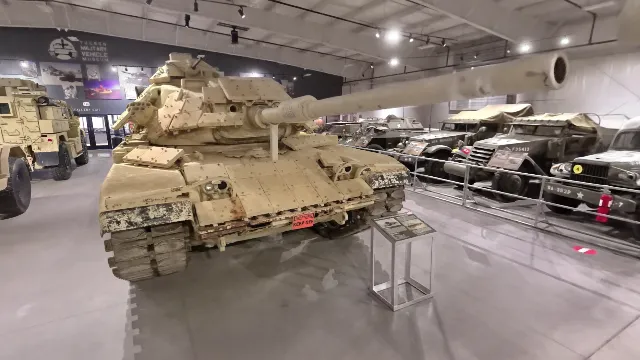
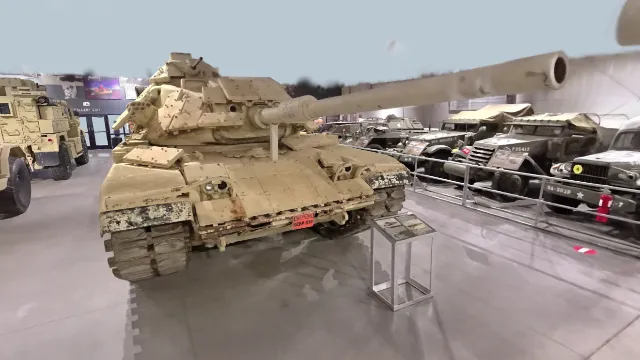
Crop the roof and outside noise; right-drag pans
- tools/crop-scan.mjs keeps only the hangar interior: an oriented box
  around the measured walls, up to y = 2.9 (roof, hanging lights and
  outside noise removed); the sky shell is dropped
- prepare-model.sh crops first; model now 252 MB, 253 files
- Thumbnails re-rendered from the saved poses on the new model
- Mouse: left-drag orbits, right-drag pans, middle-drag looks

diff --git a/src/devmode.ts b/src/devmode.ts
@@ -73,7 +73,7 @@ export function initDevMode(ctx: DevContext): void {
       </div>
       <p class="dev-hud__keys">
         Fly: <kbd>W</kbd><kbd>A</kbd><kbd>S</kbd><kbd>D</kbd> · <kbd>Q</kbd>/<kbd>E</kbd> down/up · <kbd>Shift</kbd> faster ·
-        right-drag to look · left-drag to orbit<br />
+        left-drag orbit · right-drag move · middle-drag look<br />
         Stops: <kbd>[</kbd>/<kbd>]</kbd> reorder · <kbd>Del</kbd> delete · arrows to move between stops
       </p>
     </details>

diff --git a/src/playcanvas-scripts.d.ts b/src/playcanvas-scripts.d.ts
@@ -12,6 +12,9 @@ declare module 'playcanvas/scripts/esm/camera-controls.mjs' {
     rotateSpeed: number;
     zoomSpeed: number;
     sceneSize: number;
+    leftButton: 'orbit' | 'pan' | 'look';
+    middleButton: 'orbit' | 'pan' | 'look';
+    rightButton: 'orbit' | 'pan' | 'look';
     focus(focus: Vec3, resetZoom?: boolean): void;
     look(focus: Vec3, resetZoom?: boolean): void;
     reset(focus: Vec3, position: Vec3): void;

diff --git a/src/viewer.ts b/src/viewer.ts
@@ -144,6 +144,10 @@ export class Viewer {
       enableOrbit: true,
       enableFly: true,
       enablePan: true,
+      // Left-drag orbits, right-drag moves (pans) the model, middle-drag looks around.
+      leftButton: 'orbit',
+      rightButton: 'pan',
+      middleButton: 'look',
     });
 
     // Streaming / LOD settings

diff --git a/Tucson Military Vehicle Museum Tour — v1 Spec.md b/Tucson Military Vehicle Museum Tour — v1 Spec.md
@@ -53,25 +53,26 @@ Claude - 3DGS/            # working folder = git repo root
 
 Convert the scan to **Streamed SOG** with PlayCanvas's `splat-transform` CLI. This keeps full detail near the camera, splits the model into many small files that fit GitHub's 100 MB per-file limit, and loads progressively.
 
-The source is the PortalCam / LCC Studio **PLY export** (13.9M splats, SH degree 0, Z-up, metres). It already contains six detail levels, `point_cloud.ply` then `point_cloud_1…5.ply` (each about half the previous), plus `environment.ply`, a small distant sky shell. These map straight onto Streamed SOG LOD levels 0–5, with the environment tagged as level -1 (always drawn), so no decimation is needed. Each input is rotated +90° about X to make it Y-up for PlayCanvas; the viewer applies no further rotation, so stop poses are plain world coordinates.
+The source is the PortalCam / LCC Studio **PLY export** (13.9M splats, SH degree 0, Z-up, metres). It already contains six detail levels, `point_cloud.ply` then `point_cloud_1…5.ply` (each about half the previous), which map straight onto Streamed SOG LOD levels 0–5, so no decimation is needed.
 
-`tools/prepare-model.sh` runs this ([Streamed SOG format](https://developer.playcanvas.com/user-manual/gaussian-splatting/formats/streamed-sog/), [guide](https://developer.playcanvas.com/user-manual/splat-transform/streamed-sog/)):
+**Cropping.** The scan is entirely indoors, so `tools/crop-scan.mjs` first crops every level to the inside of the hangar: an oriented box around the walls (0.8 m margin), from just under the floor up to y = 2.9, which removes the roof, the hanging lights and ducts, and all noise outside the building. `environment.ply` (a distant sky shell) is left out. The hall's box is measured from the scan: centre (x −5.6, z 32.19), long axis at −76.1° from +X towards +Z, walls at −31.0 / +34.5 m along and −18.5 / +17.8 m across. With no roof, eye-level views show the background colour above the walls, and the hall can be viewed cleanly from above.
+
+Each input is rotated +90° about X to make it Y-up for PlayCanvas; the viewer applies no further rotation, so stop poses are plain world coordinates. `tools/prepare-model.sh` runs the crop and then ([Streamed SOG format](https://developer.playcanvas.com/user-manual/gaussian-splatting/formats/streamed-sog/), [guide](https://developer.playcanvas.com/user-manual/splat-transform/streamed-sog/)):
 
 ```bash
 npm install -g @playcanvas/splat-transform
-P=source/tucson/ply/point_cloud/iteration_100
+C=source/tucson/cropped
 splat-transform \
-  $P/point_cloud.ply   -r 90,0,0 -l 0 \
-  $P/point_cloud_1.ply -r 90,0,0 -l 1 \
+  $C/point_cloud.ply   -r 90,0,0 -l 0 \
+  $C/point_cloud_1.ply -r 90,0,0 -l 1 \
   …                                   \
-  $P/point_cloud_5.ply -r 90,0,0 -l 5 \
-  $P/environment.ply   -r 90,0,0 -l -1 \
+  $C/point_cloud_5.ply -r 90,0,0 -l 5 \
   public/model/lod-meta.json --filter-nan --filter-harmonics 0
 ```
 
-Result: 319 MB in 307 files, largest 2.2 MB (LOD 0 162 MB … LOD 5 4.9 MB, environment 92 KB).
+Result: 252 MB in 253 files, largest 2.2 MB (LOD 0 138 MB … LOD 5 3.5 MB).
 
-World facts: the hangar floor is at y ≈ −1.4 and the roof at y ≈ 5.5–6, so eye height is y ≈ 0.2. The hall runs along +Z (roughly x −20…5, z 0…61 along the capture path). The scan is indoors: overview poses must stay under the roof.
+World facts: the hangar floor is at y ≈ −1.4 and the roof at y ≈ 5.5–6, so eye height is y ≈ 0.2. The hall runs along +Z (roughly x −20…5, z 0…61 along the capture path). The roof is cropped away, so overview poses can be above the hall, e.g. position (−26, 32, −6) looking at (−5.6, −1.4, 32).
 
 **Done when:** every file under `public/model/` is under 100 MB, the full folder is well under GitHub Pages' 1 GB site limit, and it looks right at the stops in the PlayCanvas viewer.
 
@@ -176,7 +177,7 @@ Dev mode is how you author the tour: fly to a view, snap it, type the text, expo
 
 **Controls**
 
-- Free-fly camera: WASD + right-drag to look, Q/E down/up, Shift for faster movement. Left-drag orbit stays available. Idle drift is off in dev mode.
+- Free-fly camera: WASD, Q/E down/up, Shift for faster movement. Mouse (everywhere, not only dev mode): left-drag orbits, right-drag moves (pans) the model, middle-drag looks around. Idle drift is off in dev mode.
 - A HUD shows the live camera position, target and FOV, plus a FOV slider.
 - The HUD includes an editor for the active stop: title input (max 30 characters) and drift dropdown, with Delete.
 
